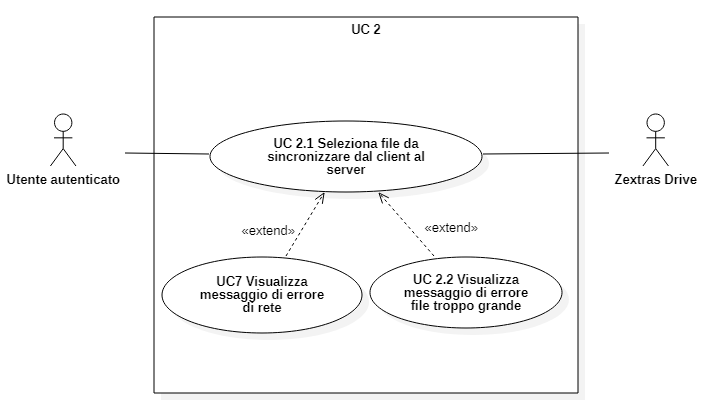
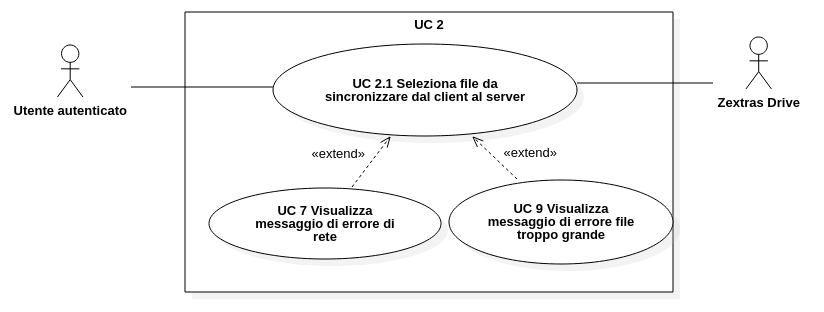
Aggiunta descrizione ad UC2 e sistemato diagramma

diff --git a/Esterni/AnalisiDeiRequisiti/components/uc/uc2.tex b/Esterni/AnalisiDeiRequisiti/components/uc/uc2.tex
@@ -4,6 +4,18 @@
     \includegraphics[scale = 0.6]{components/img/UC2.png}
     \caption{UC2 - Sincronizzazione file da client a server}
 \end{figure}
+\begin{itemize}
+\item \textbf{Attore Primario:} Utente autenticato;
+\item \textbf{Attore Secondario:} \glo{Zextras Drive};
+\item \textbf{Precondizione:} L'utente ha necessità di sincronizzare uno o più file dal client al server;
+\item \textbf{Postcondizione:} L'utente ha sincronizzato i file dal client al server;
+\item \textbf{Scenario principale:}
+\begin{enumerate}
+\item L'utente vuole sincronizzare un file dal client verso il server;
+\item Viene scelto l'insieme dei file che dovrà essere sincronizzato;
+\item La sincronizzazione delle modifiche viene attivata per l'insieme scelto.
+\end{enumerate}
+\end{itemize}
 \subsubsection{UC2.1 - Seleziona file da sincronizzare dal client al server}
 \begin{itemize}
 \item \textbf{Attore Primario:} Utente autenticato;
